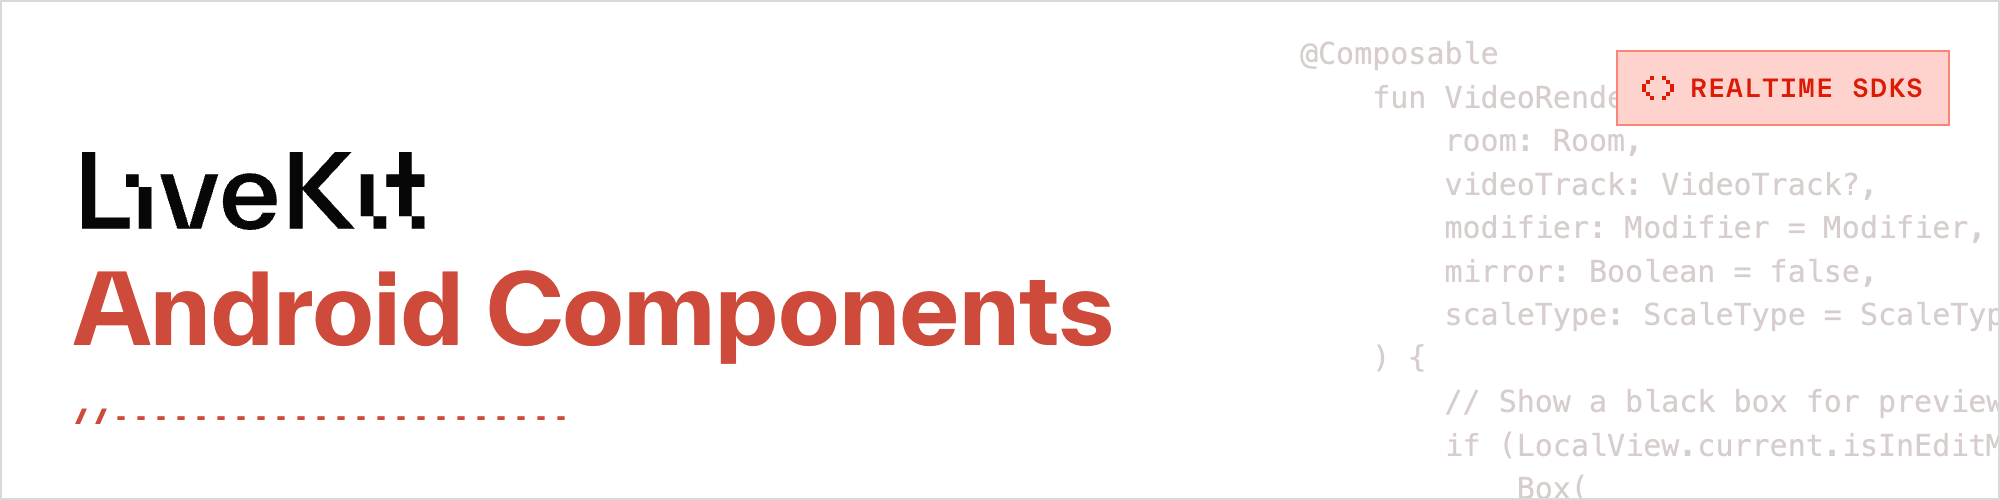
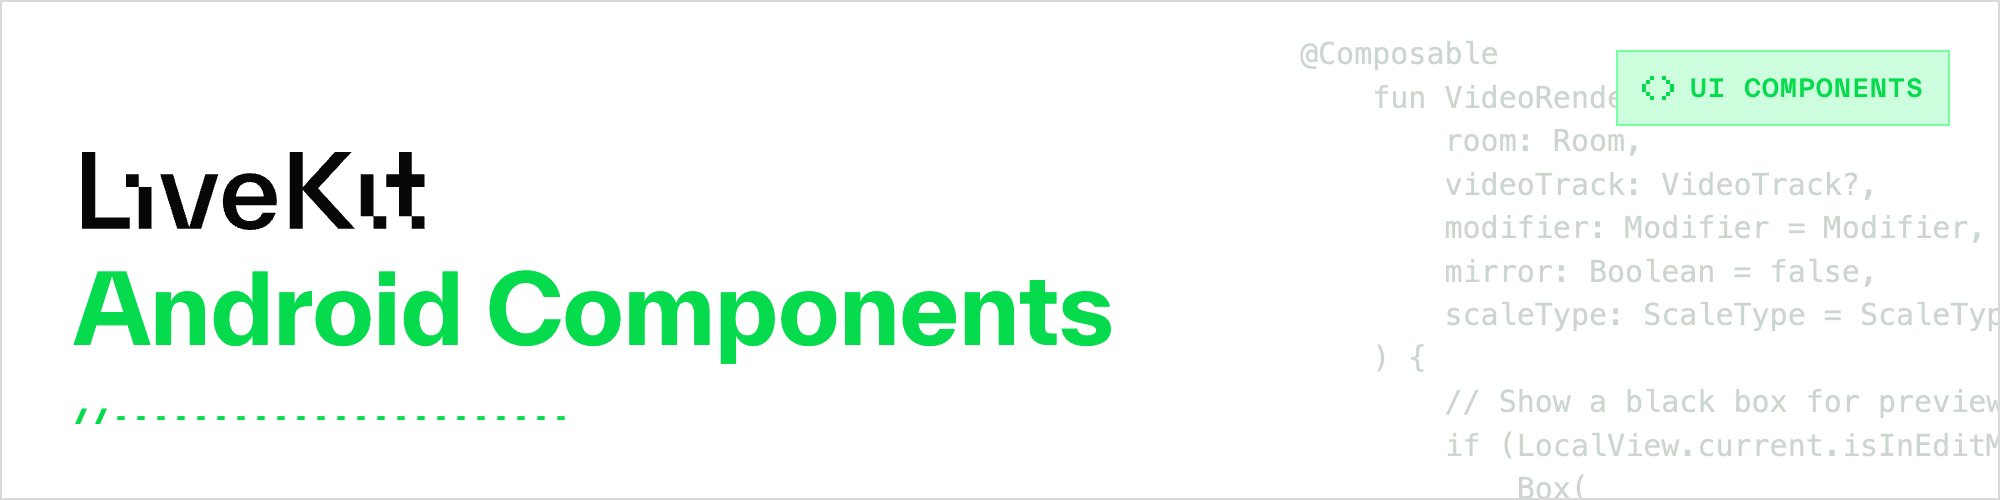
update readme (#37)

Changed region(s): [[0.031, 0.54, 0.558, 0.72], [0.806, 0.09, 0.992, 0.27], [0.031, 0.81, 0.279, 0.84]]

diff --git a/README.md b/README.md
@@ -96,9 +96,10 @@ fully-functional livestreaming app, with more fleshed out usage of the Component
 <br/><table>
 <thead><tr><th colspan="2">LiveKit Ecosystem</th></tr></thead>
 <tbody>
-<tr><td>Realtime SDKs</td><td><a href="https://github.com/livekit/components-js">React Components</a> · <a href="https://github.com/livekit/client-sdk-js">Browser</a> · <a href="https://github.com/livekit/components-swift">Swift Components</a> · <a href="https://github.com/livekit/client-sdk-swift">iOS/macOS/visionOS</a> · <a href="https://github.com/livekit/client-sdk-android">Android</a> · <a href="https://github.com/livekit/client-sdk-flutter">Flutter</a> · <a href="https://github.com/livekit/client-sdk-react-native">React Native</a> · <a href="https://github.com/livekit/rust-sdks">Rust</a> · <a href="https://github.com/livekit/node-sdks">Node.js</a> · <a href="https://github.com/livekit/python-sdks">Python</a> · <a href="https://github.com/livekit/client-sdk-unity-web">Unity (web)</a> · <a href="https://github.com/livekit/client-sdk-unity">Unity (beta)</a></td></tr><tr></tr>
-<tr><td>Server APIs</td><td><a href="https://github.com/livekit/node-sdks">Node.js</a> · <a href="https://github.com/livekit/server-sdk-go">Golang</a> · <a href="https://github.com/livekit/server-sdk-ruby">Ruby</a> · <a href="https://github.com/livekit/server-sdk-kotlin">Java/Kotlin</a> · <a href="https://github.com/livekit/python-sdks">Python</a> · <a href="https://github.com/livekit/rust-sdks">Rust</a> · <a href="https://github.com/agence104/livekit-server-sdk-php">PHP (community)</a></td></tr><tr></tr>
-<tr><td>Agents Frameworks</td><td><a href="https://github.com/livekit/agents">Python</a> · <a href="https://github.com/livekit/agent-playground">Playground</a></td></tr><tr></tr>
+<tr><td>LiveKit SDKs</td><td><a href="https://github.com/livekit/client-sdk-js">Browser</a> · <a href="https://github.com/livekit/client-sdk-swift">iOS/macOS/visionOS</a> · <a href="https://github.com/livekit/client-sdk-android">Android</a> · <a href="https://github.com/livekit/client-sdk-flutter">Flutter</a> · <a href="https://github.com/livekit/client-sdk-react-native">React Native</a> · <a href="https://github.com/livekit/rust-sdks">Rust</a> · <a href="https://github.com/livekit/node-sdks">Node.js</a> · <a href="https://github.com/livekit/python-sdks">Python</a> · <a href="https://github.com/livekit/client-sdk-unity">Unity</a> · <a href="https://github.com/livekit/client-sdk-unity-web">Unity (WebGL)</a></td></tr><tr></tr>
+<tr><td>Server APIs</td><td><a href="https://github.com/livekit/node-sdks">Node.js</a> · <a href="https://github.com/livekit/server-sdk-go">Golang</a> · <a href="https://github.com/livekit/server-sdk-ruby">Ruby</a> · <a href="https://github.com/livekit/server-sdk-kotlin">Java/Kotlin</a> · <a href="https://github.com/livekit/python-sdks">Python</a> · <a href="https://github.com/livekit/rust-sdks">Rust</a> · <a href="https://github.com/agence104/livekit-server-sdk-php">PHP (community)</a> · <a href="https://github.com/pabloFuente/livekit-server-sdk-dotnet">.NET (community)</a></td></tr><tr></tr>
+<tr><td>UI Components</td><td><a href="https://github.com/livekit/components-js">React</a> · <b>Android Compose</b> · <a href="https://github.com/livekit/components-swift">SwiftUI</a></td></tr><tr></tr>
+<tr><td>Agents Frameworks</td><td><a href="https://github.com/livekit/agents">Python</a> · <a href="https://github.com/livekit/agents-js">Node.js</a> · <a href="https://github.com/livekit/agent-playground">Playground</a></td></tr><tr></tr>
 <tr><td>Services</td><td><a href="https://github.com/livekit/livekit">LiveKit server</a> · <a href="https://github.com/livekit/egress">Egress</a> · <a href="https://github.com/livekit/ingress">Ingress</a> · <a href="https://github.com/livekit/sip">SIP</a></td></tr><tr></tr>
 <tr><td>Resources</td><td><a href="https://docs.livekit.io">Docs</a> · <a href="https://github.com/livekit-examples">Example apps</a> · <a href="https://livekit.io/cloud">Cloud</a> · <a href="https://docs.livekit.io/home/self-hosting/deployment">Self-hosting</a> · <a href="https://github.com/livekit/livekit-cli">CLI</a></td></tr>
 </tbody>
